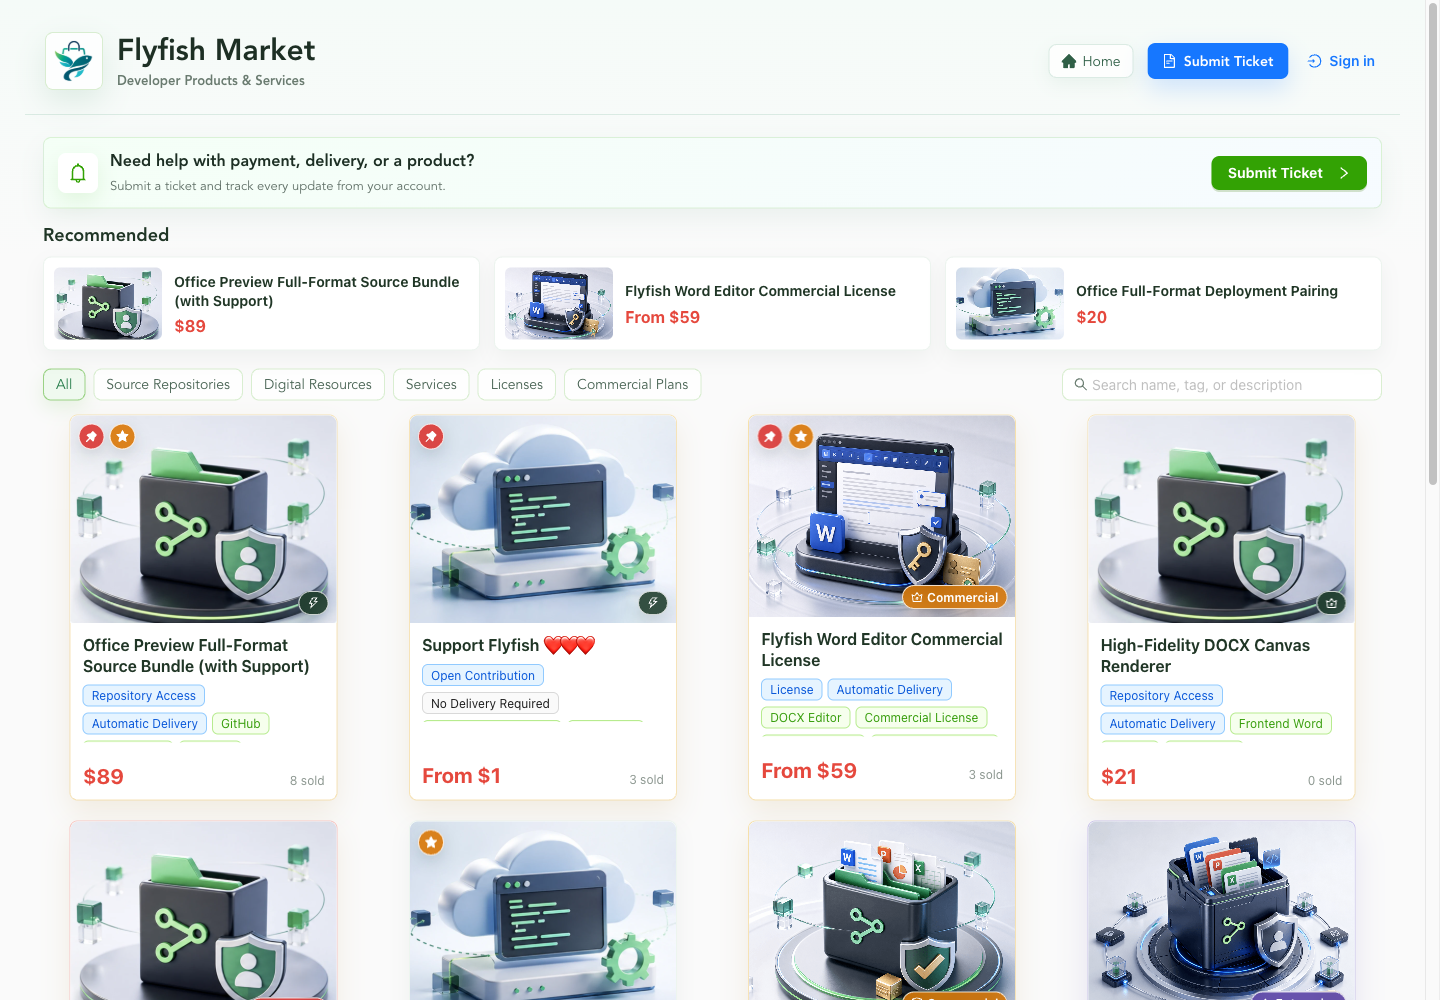
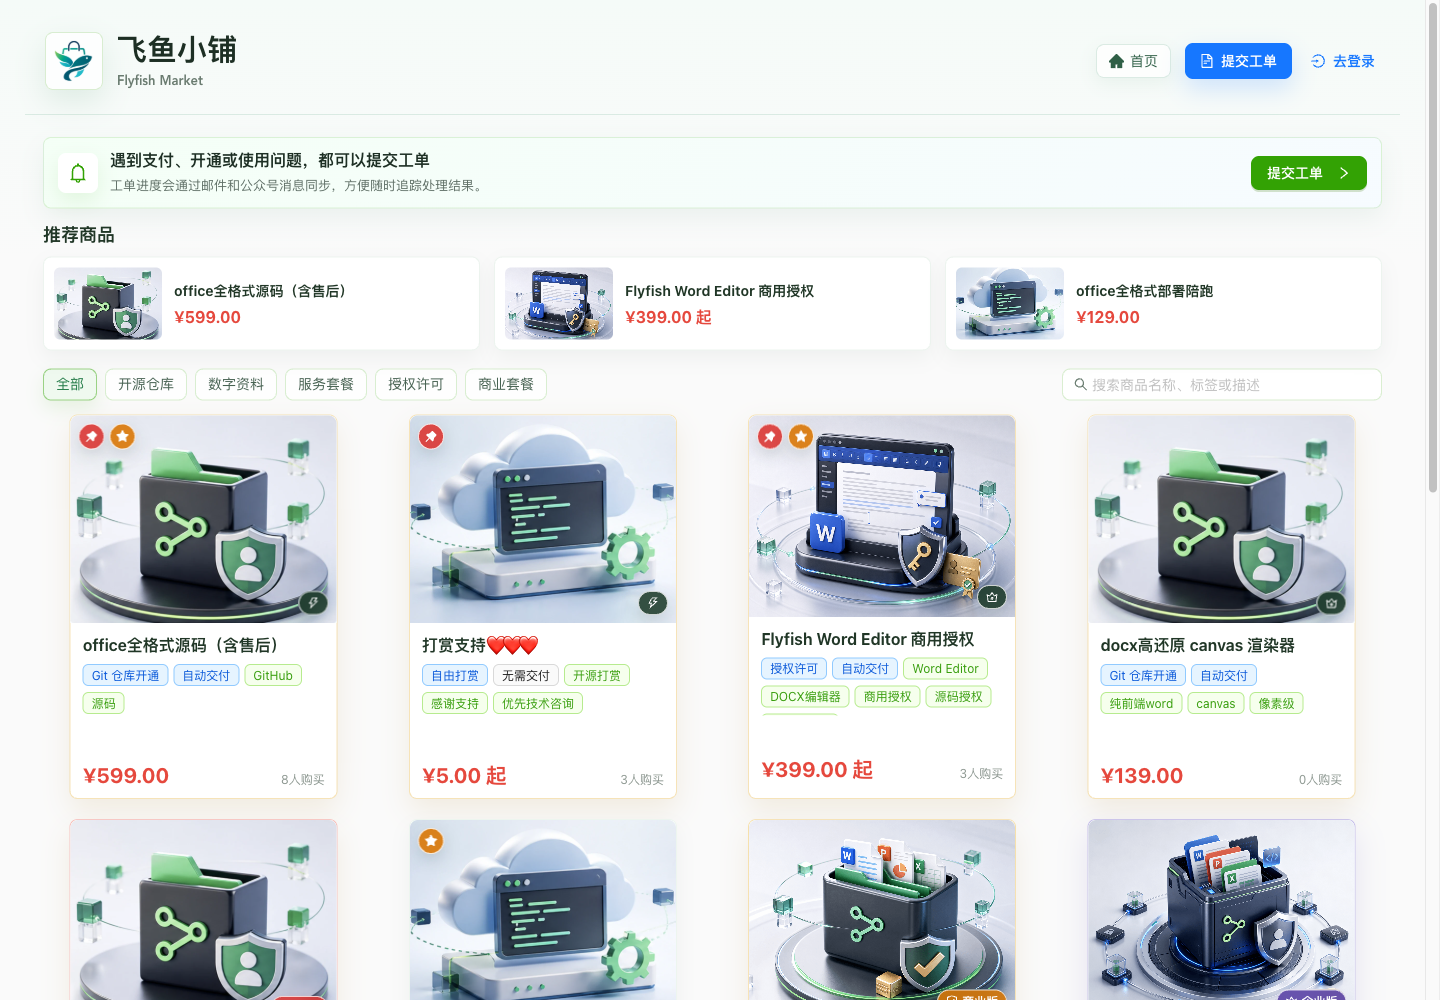
docs: refresh shop showcase in Chinese

diff --git a/README.md b/README.md
@@ -66,9 +66,11 @@
 
 如果需要接入自有授权系统，请在私有模块中实现 `ExternalLicenseIssuer`，通过 Spring Bean 注入，不要把签发密钥或专有实现提交到业务仓库。
 
-## Screenshots
+<a id="screenshots"></a>
 
-公开页面截图来自未登录的生产访客会话；订单与管理视图使用本地脱敏 Demo 数据。截图中不存在真实用户、邮箱、Token、仓库凭据、订单号或授权材料。
+## 项目截图
+
+全部截图与演示 GIF 均采用中文界面。公开页面截图来自未登录的生产访客会话；订单与管理视图使用本地脱敏 Demo 数据。截图中不存在真实用户、邮箱、Token、仓库凭据、订单号或授权材料。
 
 ### 商品购买链路
 
